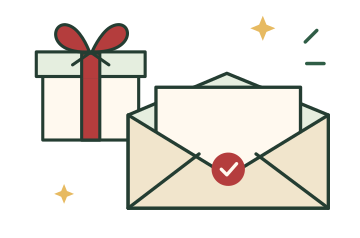
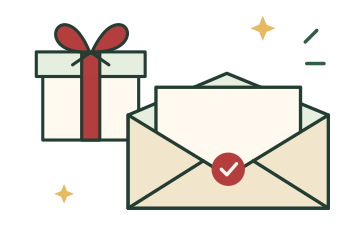
Animate the Help illustration and fix envelope seams

Changed region(s): [[0.3667, 0.6471, 0.5806, 0.8824], [0.7028, 0.6176, 0.9167, 0.8824]]

diff --git a/src/brand/help-motion.css b/src/brand/help-motion.css
@@ -1,0 +1,21 @@
+.envelope-letter {
+  animation: help-letter-rise 4.8s ease-in-out infinite;
+}
+
+@keyframes help-letter-rise {
+  0%, 46%, 92%, 100% { transform: translateY(0); }
+  63%, 75% { transform: translateY(-8px); }
+}
+
+.help-star {
+  animation: help-twinkle 4.8s ease-in-out infinite;
+}
+
+.help-star + .help-star {
+  animation-delay: -2.4s;
+}
+
+@keyframes help-twinkle {
+  0%, 100% { opacity: .72; }
+  50% { opacity: 1; }
+}

diff --git a/src/app/help/page.tsx b/src/app/help/page.tsx
@@ -32,7 +32,7 @@ export default function HelpPage() {
           <BrandIllustration
             scene="help"
             priority
-            className="mx-auto mb-6 h-44 w-full object-contain sm:h-52"
+            className="mx-auto mb-6 block h-44 w-full sm:h-52"
           />
           <h1 id="help-title" className="page-title">
             ¿Cómo funciona?

diff --git a/src/components/brand.tsx b/src/components/brand.tsx
@@ -17,7 +17,7 @@ export function BrandIllustration({
   };
   const [width, height] = dimensions[scene];
   const src = `/brand/illustrations/${scene}.svg`;
-  if (scene === "welcome" || scene === "gift") {
+  if (scene === "welcome" || scene === "gift" || scene === "help") {
     return (
       <picture className={className}>
         <source
